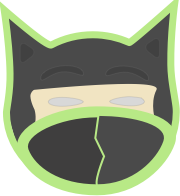
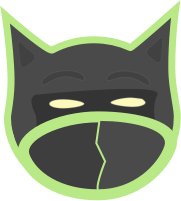
boilerplate

diff --git a/app/views/hello.php b/app/views/hello.php
@@ -2,7 +2,7 @@
 <html lang="en">
 <head>
     <meta charset="UTF-8">
-    <title>Laravel PHP Framework</title>
+    <title>katz.ninja</title>
     <style>
         @import url(//fonts.googleapis.com/css?family=Lato:300,400,700);
 
@@ -10,7 +10,8 @@
             margin:0;
             font-family:'Lato', sans-serif;
             text-align:center;
-            color: #999;
+            color: #efefef;
+            background:#222;
         }
 
         .welcome {
@@ -22,7 +23,11 @@
            margin-left: -150px;
            margin-top: -150px;
         }
-
+        h1 {
+            font-weight:lighter;
+            color:#B8E986;
+            margin-bottom:0;
+        }
         a, a:visited {
             color:#FF5949;
             text-decoration:none;
@@ -38,15 +43,15 @@
         }
 
         p {
-            margin:2em 0;
-            color:#555;
+            margin:0 0;
         }
     </style>
 </head>
 <body>
     <div class="welcome">
[1 lines of base64/hex data omitted]
-        <h1>You have arrived.</h1>
+        <a href="/"><img src="/img/katzninja.png"></a>
+        <h1>katz.ninja</h1>
+        <p>Coming soon</p>
     </div>
 </body>
 </html>

diff --git a/app/filters.php b/app/filters.php
@@ -14,6 +14,10 @@
 App::before(function($request)
 {
 	//
+	if(App::environment() == 'production') {
+		return View::make('hello');
+	}
+	
 });
 
 
